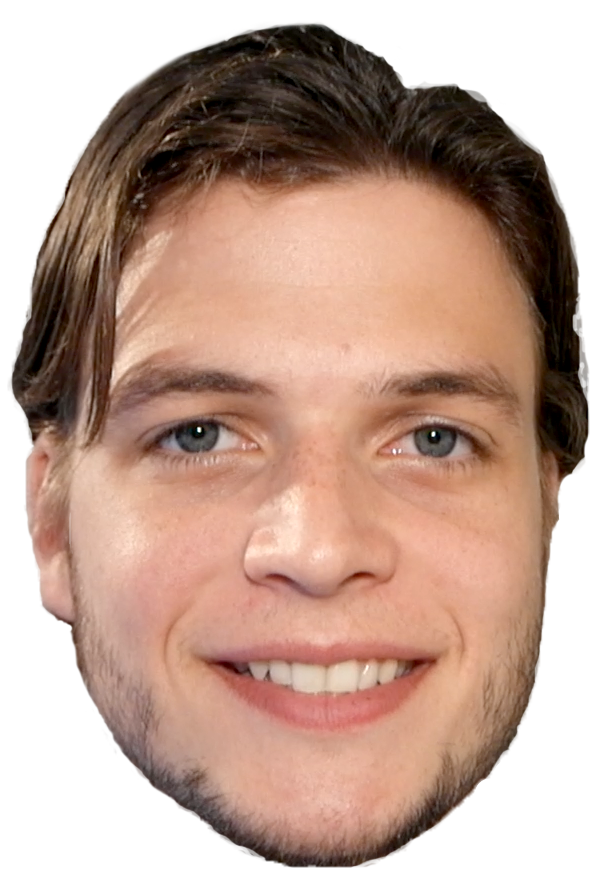
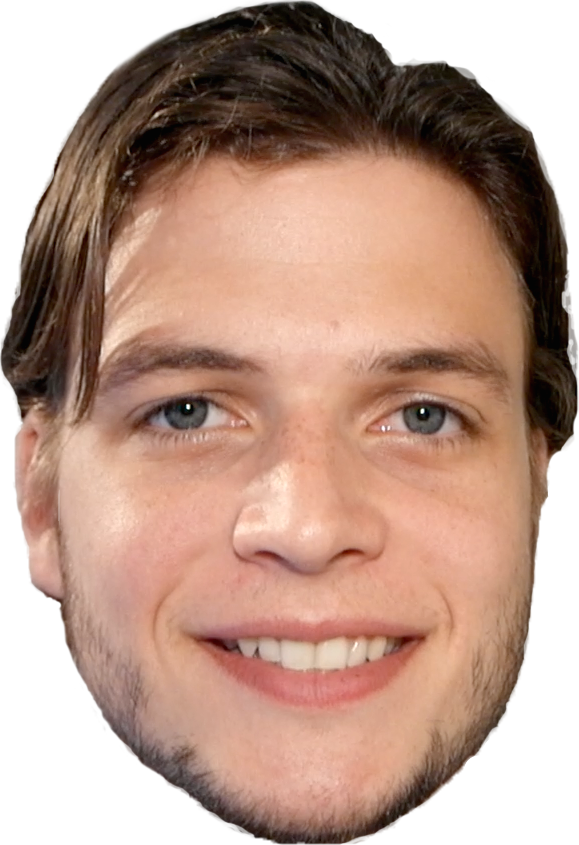
face alignment crossbrowser fix

diff --git a/app/_scss/_backgrounds.scss b/app/_scss/_backgrounds.scss
@@ -1,18 +1,18 @@
-.background-img {
-    position: absolute;
-    height: 110%;
-    width: 110%;
-    top: -5%;
-    left: -5%;
+.face-container {
+  position: absolute;
+  width: 100%;
+  height: 100%;
+  display: flex;
+  align-items: center;
+  justify-content: center;
+  .face {
+    width: 10vw;
     background-repeat: no-repeat;
-    background-position: 50% 50%;
-    background-size: 10vw;
+    top: 0;
+    right: 0;
+    bottom: 0;
+    left: -.4%;
     z-index: -1;
+    position: relative;
   }
-
-#home {
-  background-image: url("../img/test3.png");
-  background-repeat: no-repeat;
-  background-position: 49.5% 50%;
-  background-size: 11vw;
 }

diff --git a/app/_includes/home.html b/app/_includes/home.html
@@ -1,4 +1,6 @@
-  <div class="background-img"></div>
+  <div class="face-container">
+    <img src="./img/test3.png" class="face">
+  </div>
   <div class="nav">
     <ul class="navLeft">
       <a href="#posts" class="hover"><li>b</li><li>l</li><li>o</li><li>g</li></a>
